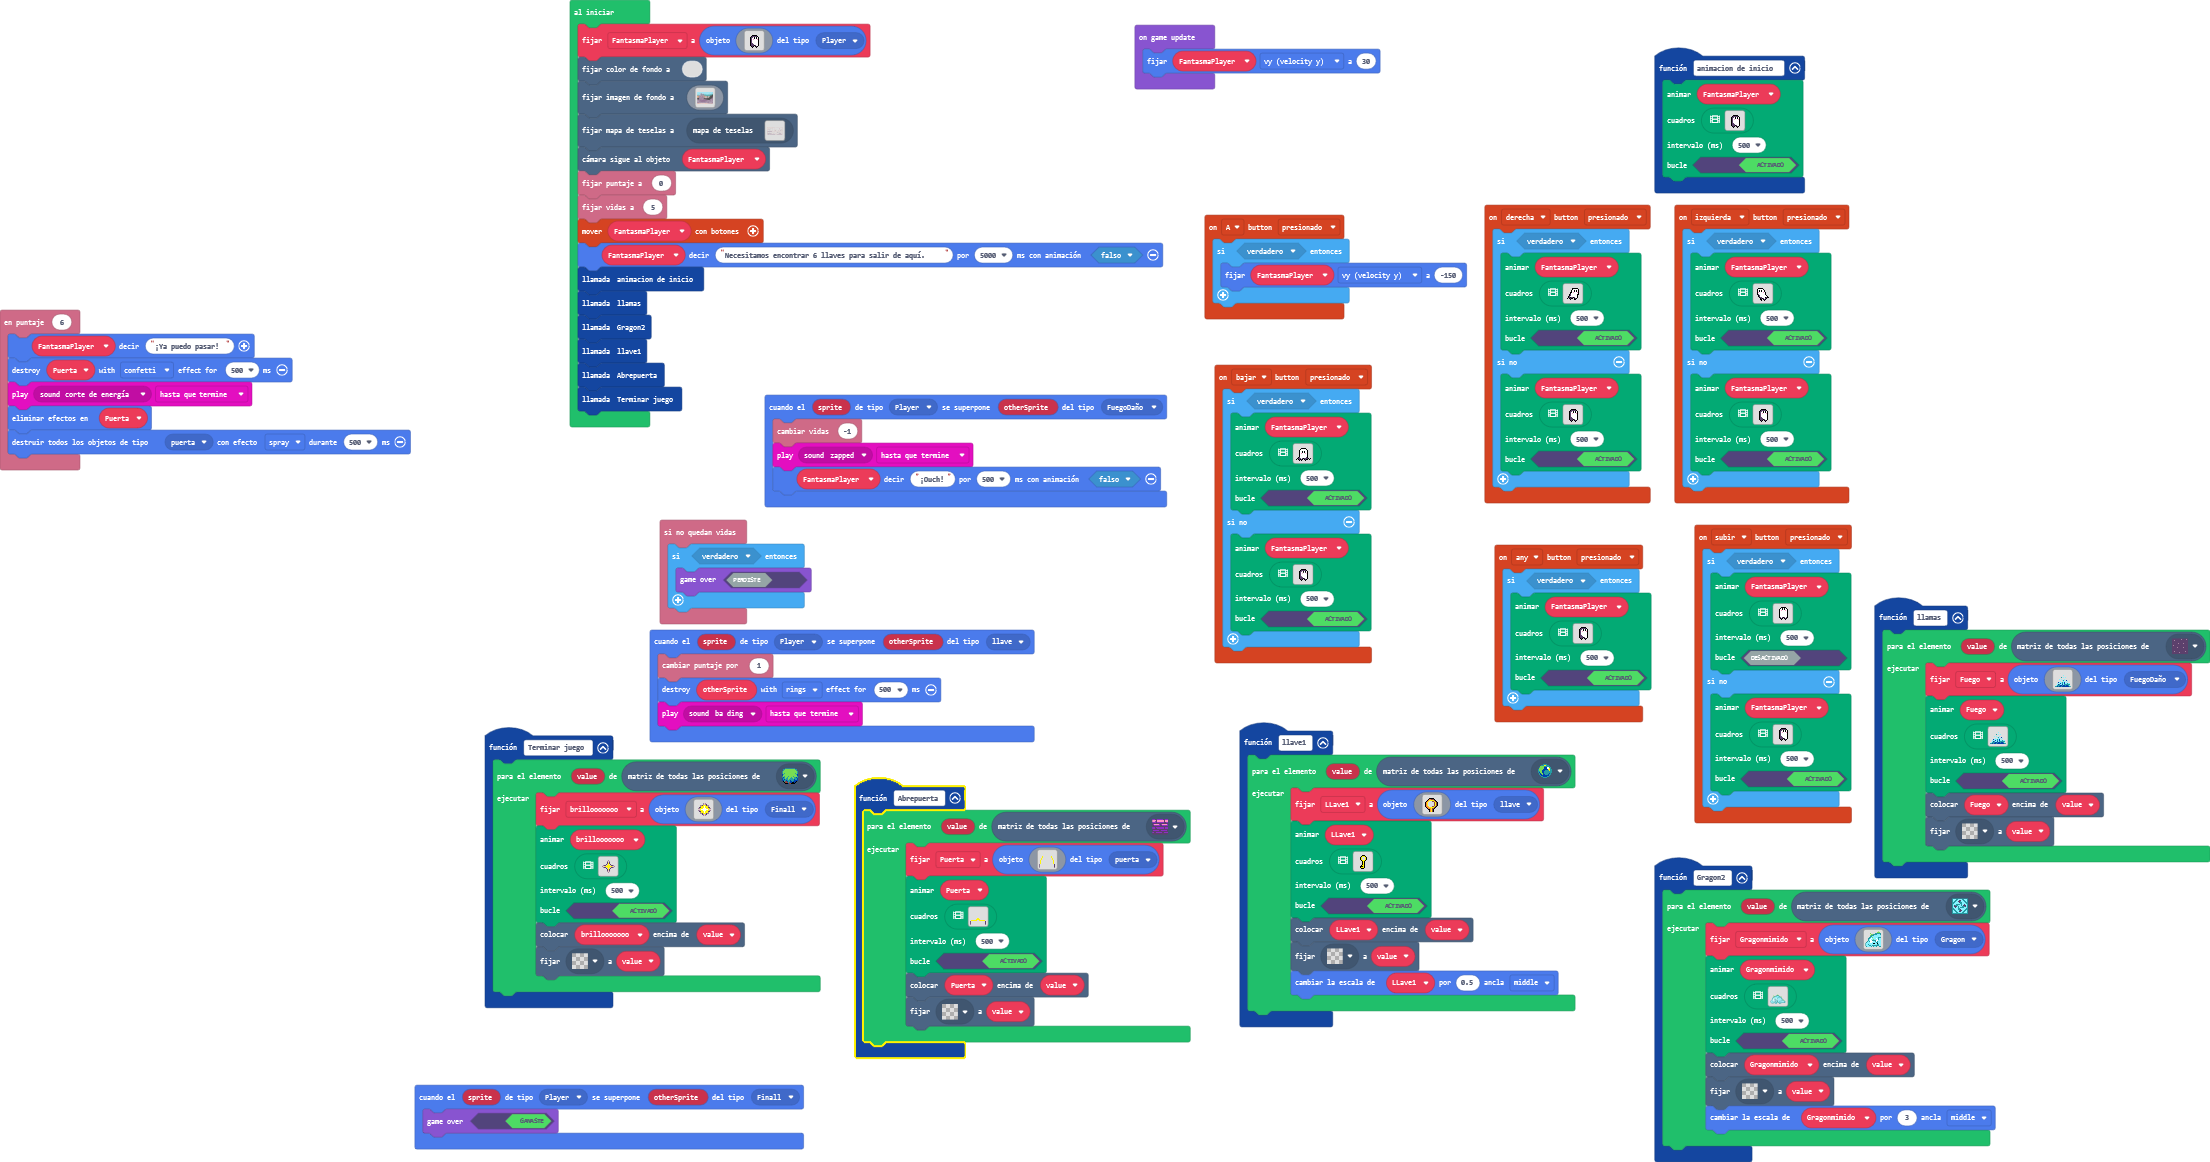
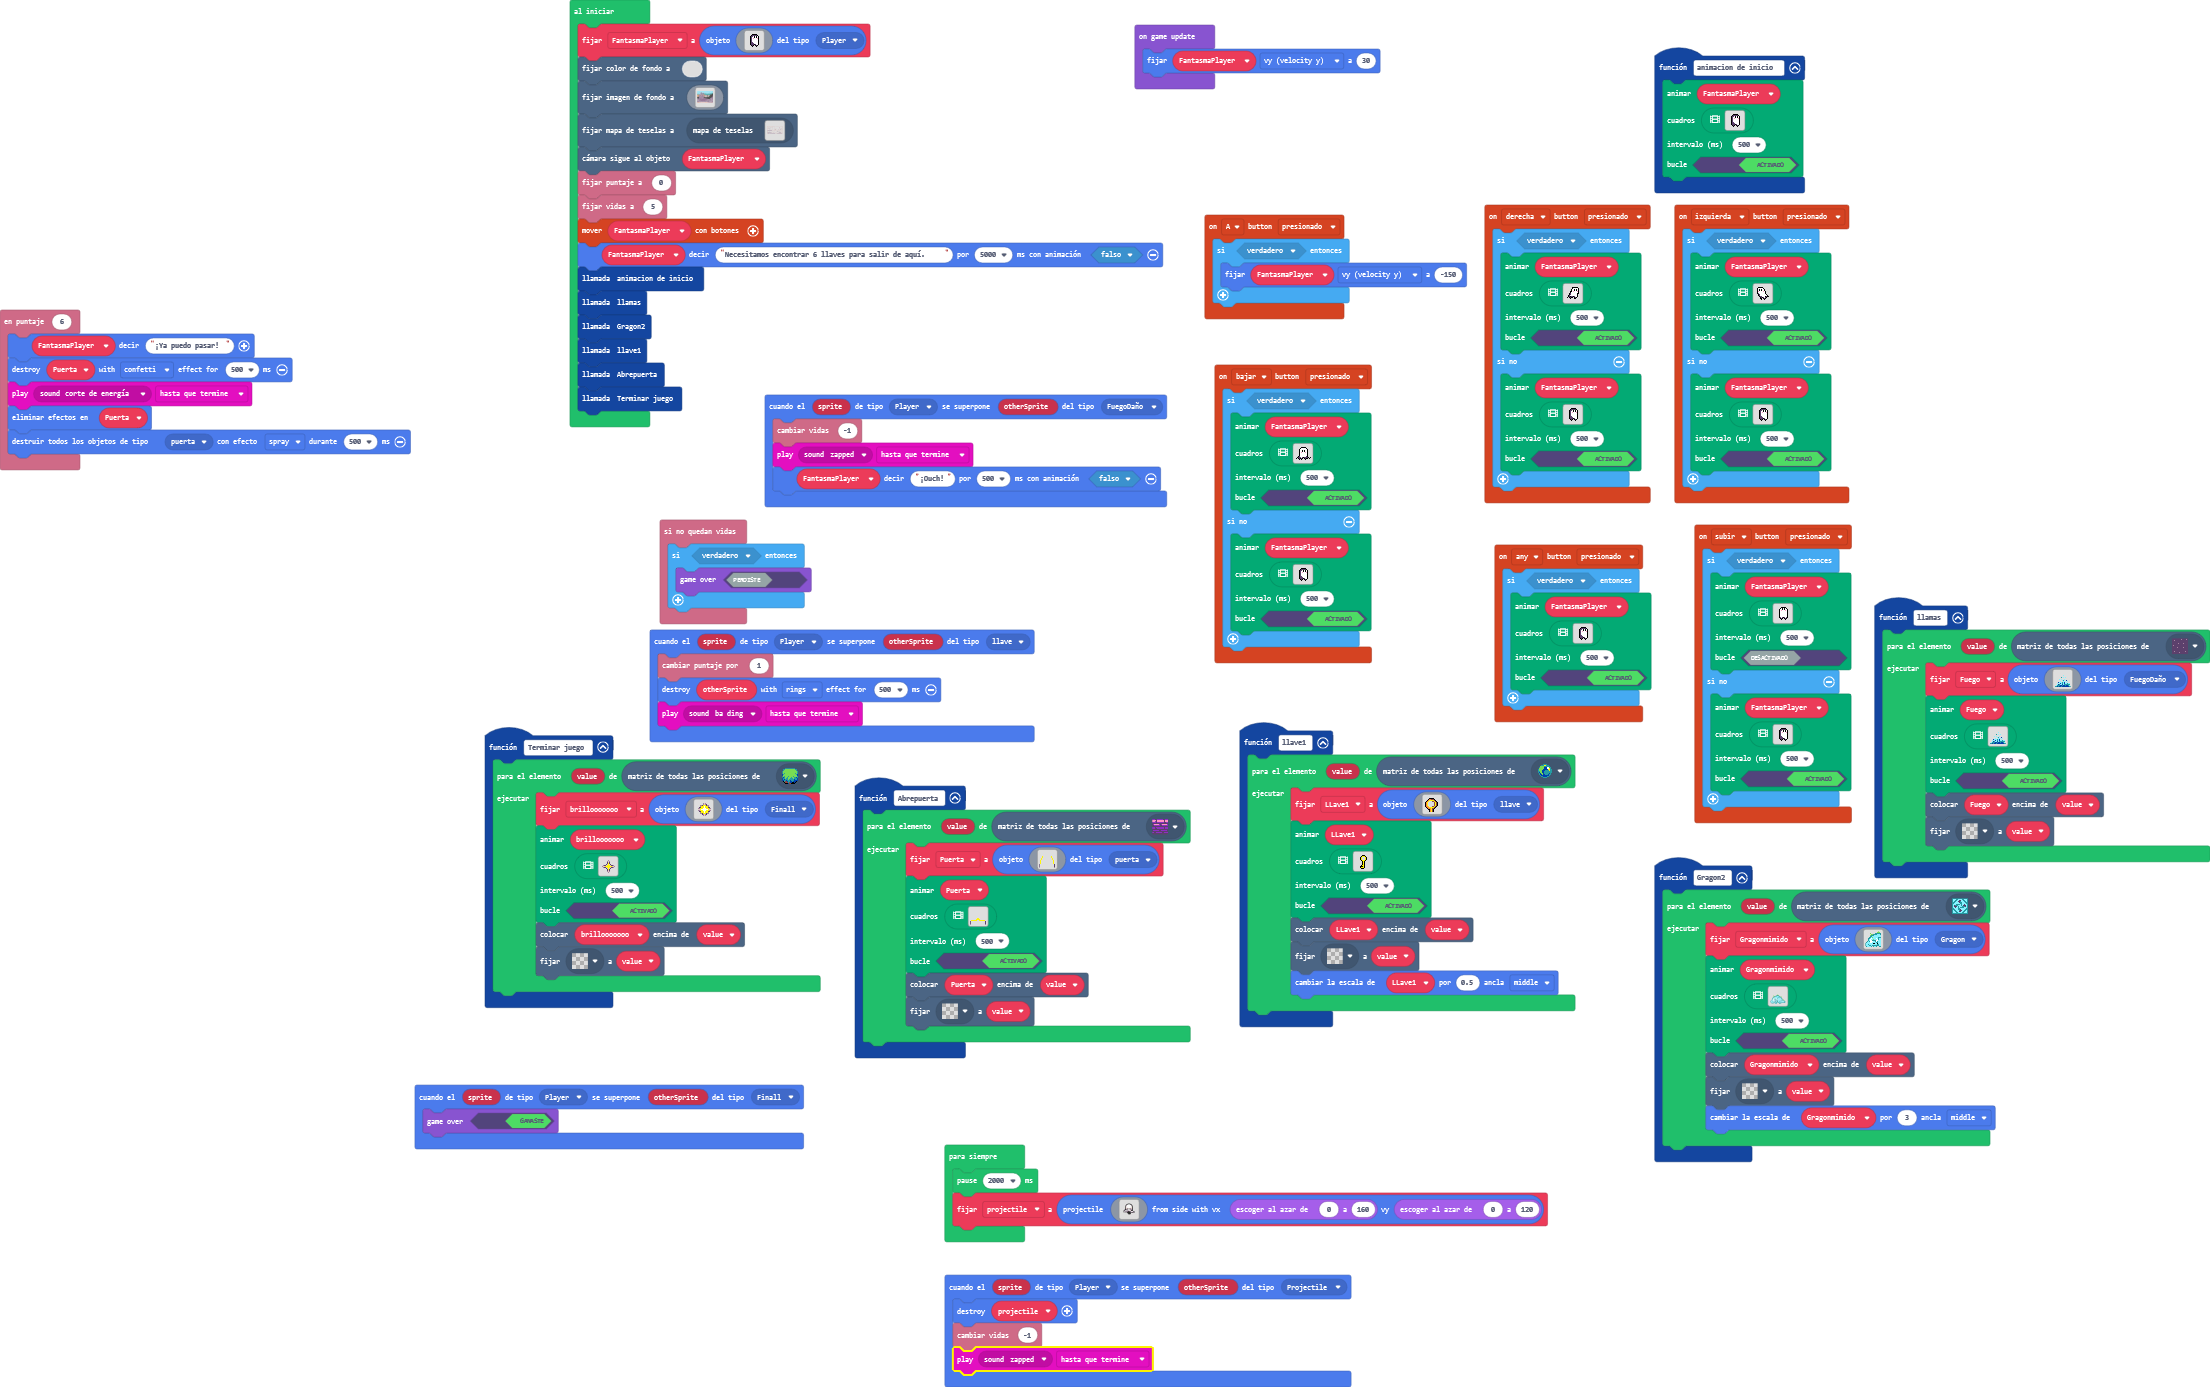
Actualizar main.blocks, main.ts

diff --git a/main.ts b/main.ts
@@ -1097,6 +1097,11 @@ function llamas () {
         tiles.setTileAt(value, assets.tile`transparency16`)
     }
 }
+sprites.onOverlap(SpriteKind.Player, SpriteKind.Projectile, function (sprite, otherSprite) {
+    sprites.destroy(projectile)
+    info.changeLifeBy(-1)
+    music.play(music.melodyPlayable(music.zapped), music.PlaybackMode.UntilDone)
+})
 controller.up.onEvent(ControllerButtonEvent.Pressed, function () {
     if (true) {
         animation.runImageAnimation(
@@ -1312,6 +1317,7 @@ function animacion_de_inicio () {
     true
     )
 }
+let projectile: Sprite = null
 let Fuego: Sprite = null
 let Puerta: Sprite = null
 let Gragonmimido: Sprite = null
@@ -1473,4 +1479,33 @@ Abrepuerta()
 Terminar_juego()
 game.onUpdate(function () {
     FantasmaPlayer.vy = 30
+})
+forever(function () {
+    pause(2000)
+    projectile = sprites.createProjectileFromSide(img`
+        ........................
+        ........................
+        ........................
+        ........................
+        ..........ffff..........
+        ........ff1111ff........
+        .......fb111111bf.......
+        .......f11111111f.......
+        ......fd11111111df......
+        ......fd11111111df......
+        ......fddd1111dddf......
+        ......fbdbfddfbdbf......
+        ......fcdcf11fcdcf......
+        .....ffff111111bf.......
+        ....fc111cdb1bdfff......
+        ....f1b1bcbfbfc111cf....
+        ....fbfbfbffff1b1b1f....
+        .........fffffffbfbf....
+        ..........fffff.........
+        ...........fff..........
+        ........................
+        ........................
+        ........................
+        ........................
+        `, randint(0, 160), randint(0, 120))
 })
